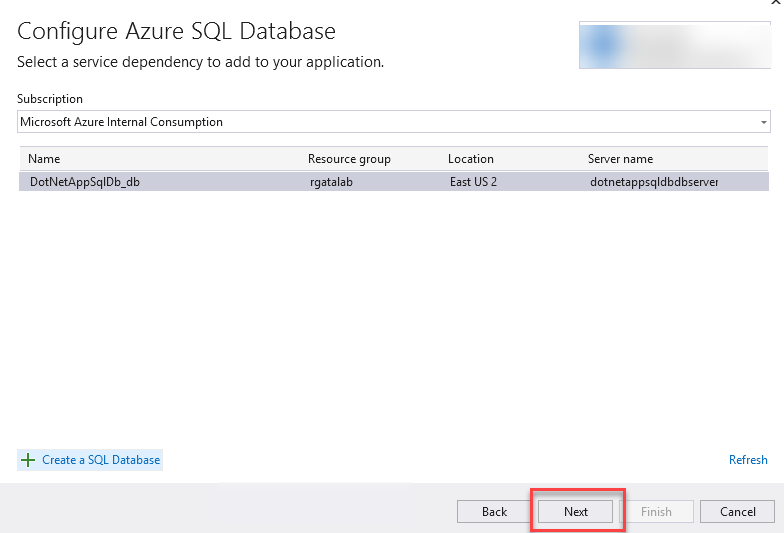
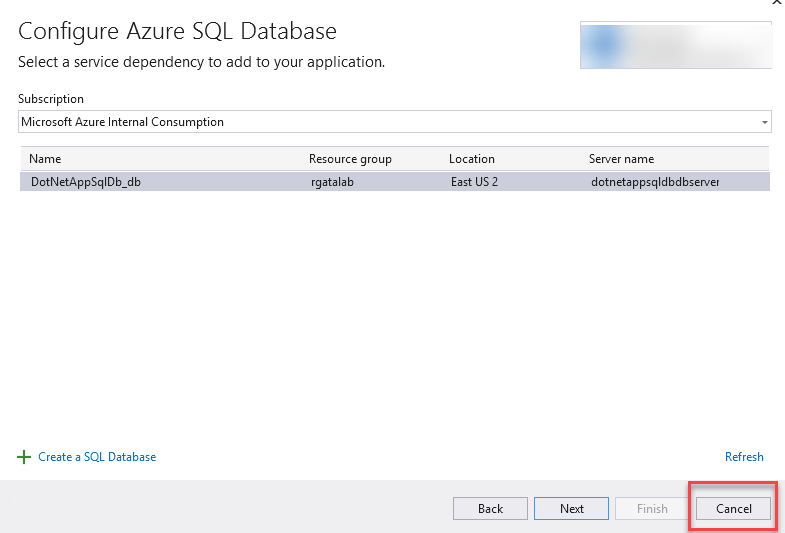
simplified devops lab db steps

diff --git a/month2/labs/lab_devops/README.md b/month2/labs/lab_devops/README.md
@@ -113,39 +113,18 @@ It will take several minutes for the deployment to complete.
 1. In the **SQL Server – Create new** window
     - (1) Give the **Database server name** a unique name
     - (2) Use the default or select a different **Location**. For better performance, it's good to have the database in the same region as the App Service
-    - (3) Provide a database **Administrator username** and **Administrator password**. 
+    - (3) Provide a database **Administrator username** and **Administrator password**. *You will need this password again in a few minutes.*
     - (4) Click **OK** 
 
         ![](images/publishconfiguresql4.png)
   
 1. Click **Create** in the **Azure SQL Database - Create new window** to create the database and close the window. It will take a few minutes to create the database. 
 
-1. Back in the **Configure Azure SQL Database** wizard click **Next** 
+1. Back in the **Configure Azure SQL Database** wizard click **Cancel** to close the wizard. (For simplicity's sake during this lab, we will use the database admin credentials in our database connection string.) 
  
     ![](images/publishconfiguresql5.png)
 
-1. In the next step of the **Configure Azure SQL Database** wizard: 
-    - (1) Enter the **Database connection string name**, **Database connection user name**, and **Database connection password** fields. These are the details your application will use to connect to the database at runtime. Best practice is to avoid using the same details as the admin username & password used in the previous step. 
-    - (2) Change the **Save connection string value in** setting to **None**.
-    - (3) Click **Finish** then click **Close**. 
- 
-        ![](images/publishconfiguresql6.png)
- 
-
-1. In the **Publish Summary** window click **Edit** 
-
-    ![](images/publishsummarypage1.png)
-
- 
-1. In the **Publish** dialog box
-    - (1) Click **Settings**
-    - (2) Click on the arrow to open the **Databases** dropdown list
-    - (3) Click on the databse name **DotNetAppSqlDb_db**
-    - (4) Click **Save**
-
-        ![](images/publishsettingsdbconnection.png)
-
-1. We now need to update the **Database conection string** in the application's **web.config** file. 
+1. Update the **Database connection string** in the application's **Web.config** file. 
     - (1) In **Internet Explorer** go to your resource group in the **Azure Portal** 
     - (2) Click on the **SQL database** name
 
@@ -159,7 +138,7 @@ It will take several minutes for the deployment to complete.
 
         ![](images/changeconnectionstring3.png)
 
-    - (5) Replace the **{your_password}** placeholder in the connection string with the password of the database user you created in the wizard above. 
+    - (5) Replace the **{your_password}** placeholder in the connection string with the password of the database administrator you created a few steps ago. 
     - (6) **Save** the **Web.config** file then **close its tab** in the editor. 
 
 1. In the **Publish - Deploy your app to a folder...** tab in Visual Studio, click **Publish**
